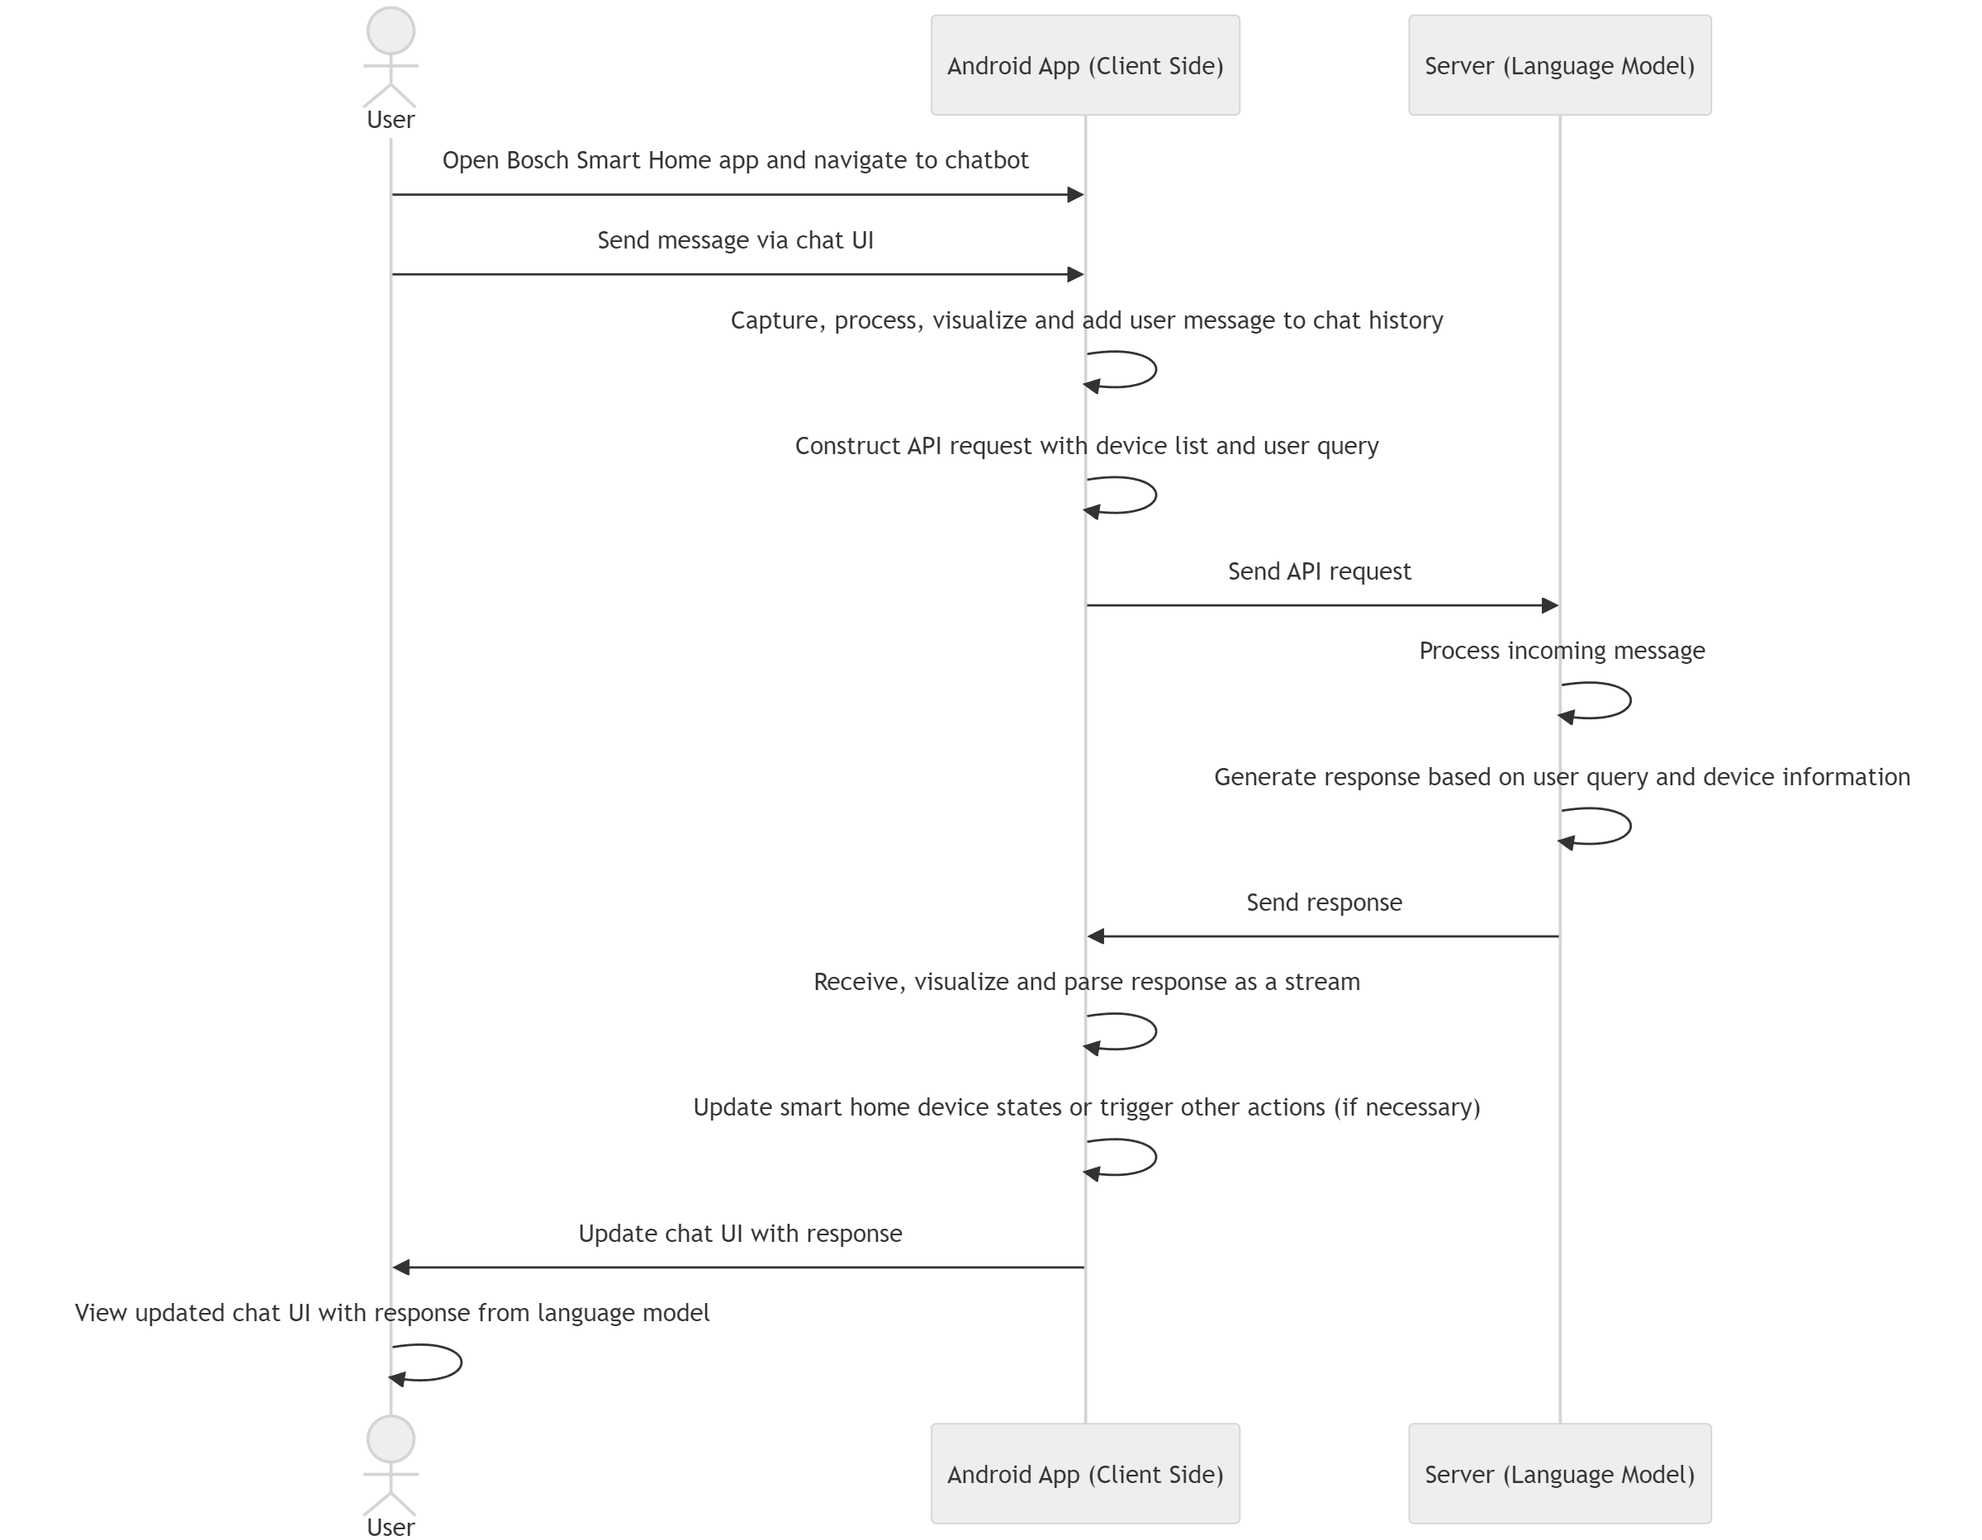
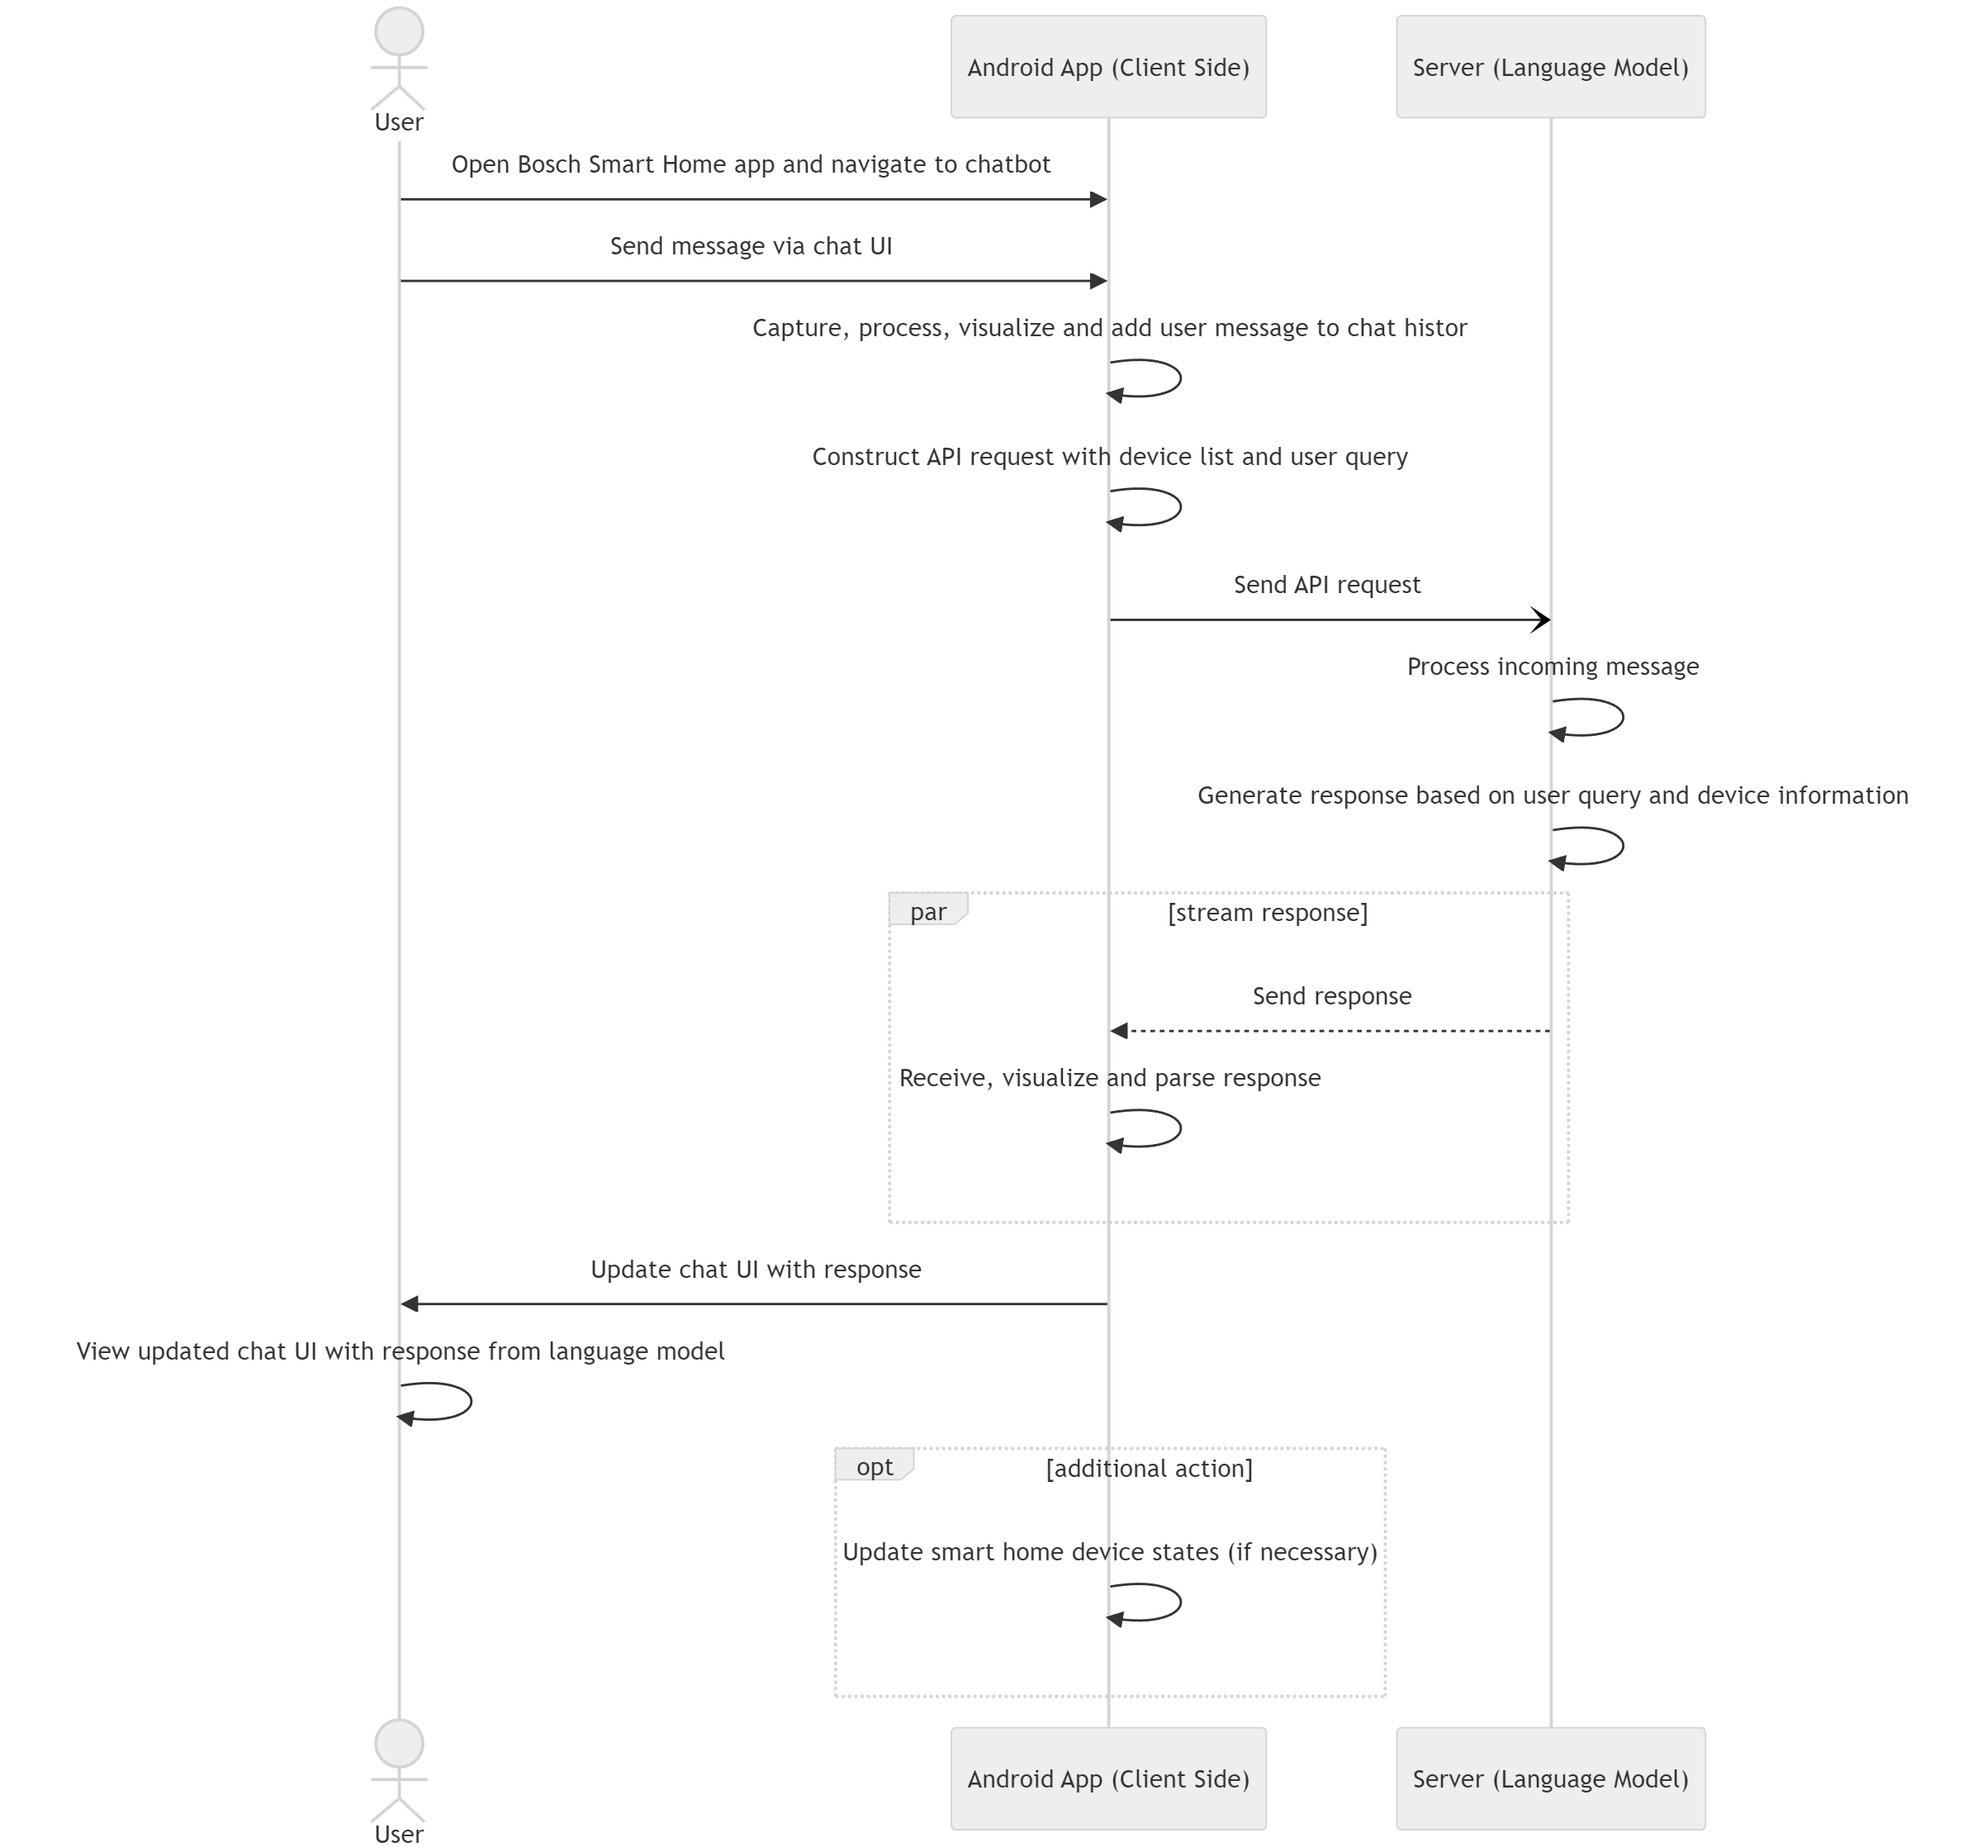
updated some captions and interaction flow section

diff --git a/content/implementation.tex b/content/implementation.tex
@@ -1,6 +1,14 @@
 % !TeX spellcheck = en_US
 
 \chapter{Implementation}
+This chapter delves into the technical implementation of the Smart Home Chatbot system, detailing the various components and processes that bring the described concept from the last chapter to life. It begins by outlining the technology stack, which combines Android Studio for client-side development with Ollama for server-side language model hosting. The chapter then explores the server setup, model customization techniques, and the intricacies of data management within the Bosch Smart Home ecosystem.
+
+A part of the chapter is dedicated to the user interface design, showcasing how the chatbot integrates seamlessly with the existing Bosch Smart Home app while providing an intuitive and responsive chat experience. The implementation of message management, request building, and response handling mechanisms are thoroughly explained, illustrating the system's ability to process user queries, interact with smart home devices, and generate contextually appropriate responses.
+
+The chapter also addresses the challenges encountered during development, such as multilingual support, historical data limitations, and security considerations. It presents the solutions implemented or proposed to overcome these obstacles, providing insights into the decision-making process throughout the project.
+
+By the end of this chapter, readers will have a comprehensive understanding of the technical architecture, key implementation details, and the reasoning behind various design choices in the Smart Home Chatbot system. This implementation forms the foundation for the subsequent evaluation and analysis of the chatbot's performance in the context of smart home management.
+
 \label{chap:implementation}
 
 \section{Technology Stack}
@@ -414,16 +422,37 @@ The main challenge here was to design a robust parsing mechanism for mapping the
 The Response Handler also manages error scenarios, such as invalid actions or device IDs not present in the current device list. In such cases, it generates appropriate error messages for the user and logs the issues for system maintenance.
 
 \section{Interaction Flow}
-The interaction flow between the user, the client-side application, and the server is illustrated in the sequence diagram below.
-This diagram details the steps involved in processing user queries, constructing API requests, and generating responses based on the smart home device information.
-This is basically a visualization of everything described previously in this chapter.
+The interaction flow between the user, the client-side application, and the server is illustrated in the sequence diagram in Figure \ref{fig:sequencedia}. This diagram provides a comprehensive overview of the steps involved in processing user queries, constructing API requests, and generating responses based on the smart home device information.
+The flow begins when a user interacts with the chatbot interface, typically by entering a text query or using speech-to-text functionality. Upon receiving this input, the client-side application initiates a series of actions to process and respond to the user's request.
+First, the application retrieves the current state of the user's smart home devices, ensuring that the most up-to-date information is available for context. This device list, along with the user's query and a limited history of recent messages, is then packaged into a structured API request.
 
+The Request Builder module, as detailed in Section \ref{sec:req-building}, constructs this request in a format compatible with the Ollama API. This includes organizing the message history in a specific order, with the device list always positioned as the first message to provide crucial context for the language model.
+Once the request is built, it is sent to the server hosting the Ollama software and the selected language model. The server processes this input, leveraging the context provided by the device list and message history to generate an appropriate response.
+The server's response is streamed back to the client in real-time, allowing for immediate display of partial responses. This streaming approach enhances the user experience by reducing perceived latency and providing a more dynamic interaction.
+
+As the response is received, the Response Handler module, described in Section \ref{sec:responsehandler}, separates it into two key components: the natural language response and the structured JSON object containing action-related information.
+The natural language portion of the response is immediately forwarded to the UI for display, maintaining a fluid conversation flow. Simultaneously, the JSON object is parsed to extract any action directives, such as turning devices on or off or adjusting temperature settings.
+If an action is specified in the JSON, the Response Handler triggers the corresponding function in the client application. This might involve sending commands to specific smart home devices or updating the application's internal state.
+
+Finally, the UI is updated to reflect both the chatbot's textual response and any changes in device states resulting from the triggered actions. This completes the interaction loop, with the system ready to receive the next user query.
+This entire process, from user input to final response and action, typically occurs within seconds. The sequence diagram visualizes this flow.
+
+\begin{figure}[h]
+    \centering
+    \captionsetup{justification=centering}
+    \includegraphics[width=\textwidth]{graphics/sequencedia.png}
+    \caption{Sequence Diagram of the typical flow of the system}
+    \label{fig:sequencedia}
+\end{figure}
+
+\iffalse
 \begin{figure}
     \centering
     \includegraphics{graphics/svgexample.svg}
     \caption{SVG direkt eingebunden}
     \label{fig:directSVG}
   \end{figure}
+\fi
 
 \section{Challenges and Solutions}
 \label{sec:challenges-solutions}

diff --git a/content/foundation.tex b/content/foundation.tex
@@ -255,7 +255,7 @@ The owner of the Home LLM repository provided us insights on how to build a mode
 Even if our intention is not on fine-tuning an LLM, such information can be very helpful, for example to get inspired by the training data format. 
 The primary focus in the process is on constructing a comprehensive dataset that represents various scenarios where a personal assistant interacts with Home Assistant. This dataset, which forms the core of the project, consists of thousands of examples demonstrating different interactions, such as controlling devices or responding to user queries.
 
-The dataset is formatted to include all necessary information for the model to understand and execute tasks. An example format might look like this:
+The dataset is formatted to include all necessary information for the model to understand and execute tasks. An example format might look like \cref{lst:homeLLM}
 
 \begin{Listing}[h]
   \begin{lstlisting}
@@ -278,7 +278,7 @@ The dataset is formatted to include all necessary information for the model to u
     { "service": "light.turn_on", "target_device": "light.kitchen" }
     ```<|endoftext|>
   \end{lstlisting}
-  \caption{Classification Metrics}
+  \caption{Example Format for Training a Large Language Model on Smart Home Control}
   \label{lst:homeLLM}
 \end{Listing}
 

diff --git a/latexhints-german.tex b/latexhints-german.tex
@@ -247,7 +247,7 @@ Es ist auch möglich, auf Unterabbildungen zu verweisen: \Cref{fig:subfigA}.
 Es ist möglich, SVGs direkt beim Kompilieren in PDF umzuwandeln.
 Dies ist im Quellcode zu latex-tipps.tex beschrieben, allerdings auskommentiert.
 
-\iffalse % <-- Das hier wegnehmen, falls inkscape im Pfad ist
+ \iffalse% <-- Das hier wegnehmen, falls inkscape im Pfad ist
   Das SVG in \cref{fig:directSVG} ist direkt eingebunden, während der Text im SVG in \cref{fig:latexSVG} mittels pdflatex gesetzt ist.
   Falls man die Graphiken sehen möchte, muss inkscape im PATH sein und im Tex-Quelltext \texttt{\textbackslash{}iffalse} und \texttt{\textbackslash{}iftrue} auskommentiert sein.
 
@@ -265,7 +265,7 @@ Dies ist im Quellcode zu latex-tipps.tex beschrieben, allerdings auskommentiert.
     \caption{Text im SVG mittels \LaTeX{} gesetzt}
     \label{fig:latexSVG}
   \end{figure}
-\fi % <-- Das hier wegnehmen, falls inkscape im Pfad ist
+ \fi% <-- Das hier wegnehmen, falls inkscape im Pfad ist
 
 
 \section{Weitere Illustrationen}
